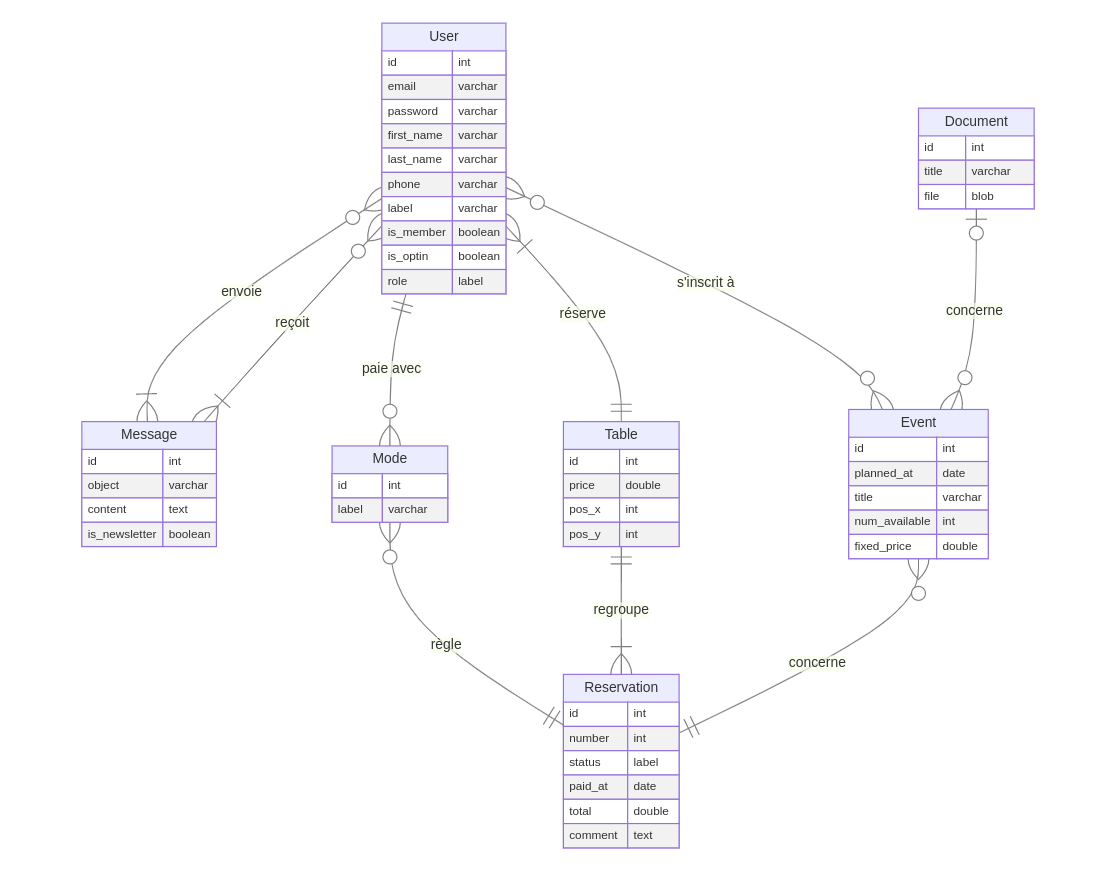
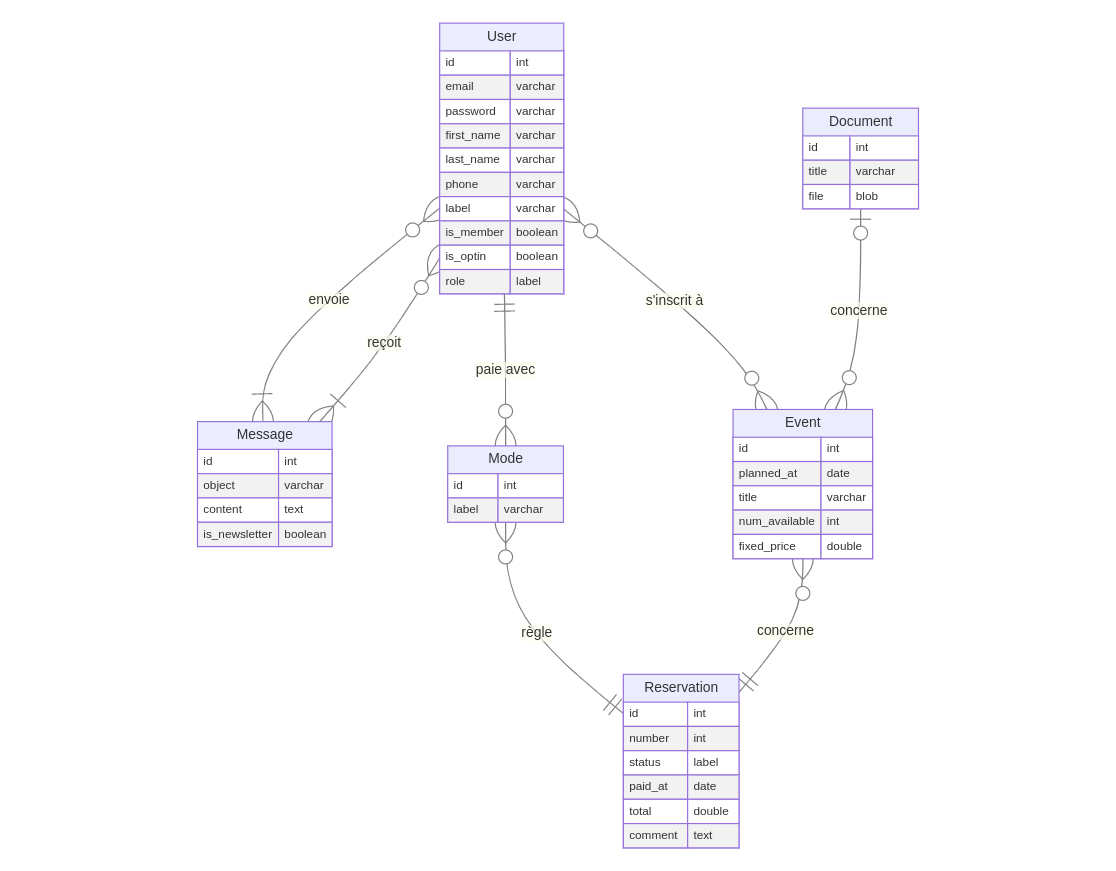
MAJ Nv Schema BDD

diff --git a/README.md b/README.md
@@ -256,15 +256,6 @@ L'administrateur peut donc enregistrer un exposant manuellement avec :
 |**num_available**|le nombre de tables disponibles|entier (3)|requis|
 |**fixed_price**|le prix de base pour une table|décimal (2,2)|requis|
 
-### Table - Les tables
-
-|||||
-|-|-|-|-|
-|**id**|l'identifiant de la table|entier|clé primaire|
-|**price**|prix individuel d'une table|décimal (2,2)|déterminé par le prix de base **fixed_price** par défaut|
-|**pos_x**|emplacement X (horizontal) de la table sur le plan de la salle|entier|optionnel|
-|**pos_y**|emplacement Y (vertical) de la table sur le plan de la salle|entier|optionnel|
-
 ### Reservation - Les réservations
 
 |||||
@@ -291,6 +282,30 @@ Un utilisateur peut envoyer plusieurs messages à un autre utilisateur. (0,n)
 Un utilisateur utilise un seul mode de paiement. (1,1)
 
 Un mode de paiement peut être adopté par plusieurs utilisateurs. (0,n)
+
+### User (0,n) - Event (0,n)
+
+Un utilisateur peut s'inscrire à plusieurs événements. (0,n)
+
+Un événement peut accueillir plusieurs exposants. (0,n)
+
+### Mode (0,n) - (1,1) Reservation
+
+Un mode de paiement peut concerner plusieurs réservations. (0,n)
+
+Une réservation est réglée avec un seul mode de paiement. (1,1)
+
+### Event (0,n) - (1,1) Reservation
+
+Un événement peut regrouper plusieurs réservations. (0,n)
+
+Une réservation concerne un seul événement. (1,1)
+
+### Document (0,1) - (0,n) Event
+
+Un document peut concerner un événement. (0,1)
+
+Un événement peut regrouper plusieurs documents. (0,n)
 
 ## La modélisation (UML)
 

diff --git a/docs/Realisation.md b/docs/Realisation.md
@@ -95,23 +95,11 @@ Un utilisateur peut s'inscrire à plusieurs événements. (0,n)
 
 Un événement peut accueillir plusieurs exposants. (0,n)
 
-### User (1,n) - (1,1) Table
-
-Un utilisateur réserve au moins une table. (1,n)
-
-Une table est réservée pour un seul utilisateur. (1,1)
-
 ### Mode (0,n) - (1,1) Reservation
 
 Un mode de paiement peut concerner plusieurs réservations. (0,n)
 
 Une réservation est réglée avec un seul mode de paiement. (1,1)
-
-### Table (1,1) - (1,n) Reservation
-
-Une table concerne une seule réservation. (1,1)
-
-Une réservation regroupe au moins une table. (1,n)
 
 ### Event (0,n) - (1,1) Reservation
 

diff --git a/docs/Besoins.md b/docs/Besoins.md
@@ -160,9 +160,12 @@ L'administrateur peut donc enregistrer un exposant manuellement avec :
 - son numéro de téléphone (optionnel, de 10 à 20 caractères numériques et +)
 - son libellé de stand (optionnel, de 2 à 255 caractères)
 
+#### La réinitialisation du mot de passe
+
+
+
 **Exposant**
 
-- inscription manuelle d'un utilisateur
 - réinitialisation du mot de passe
 - envoi d'un nouveau mot de passe
 - consultation d'une réservation
